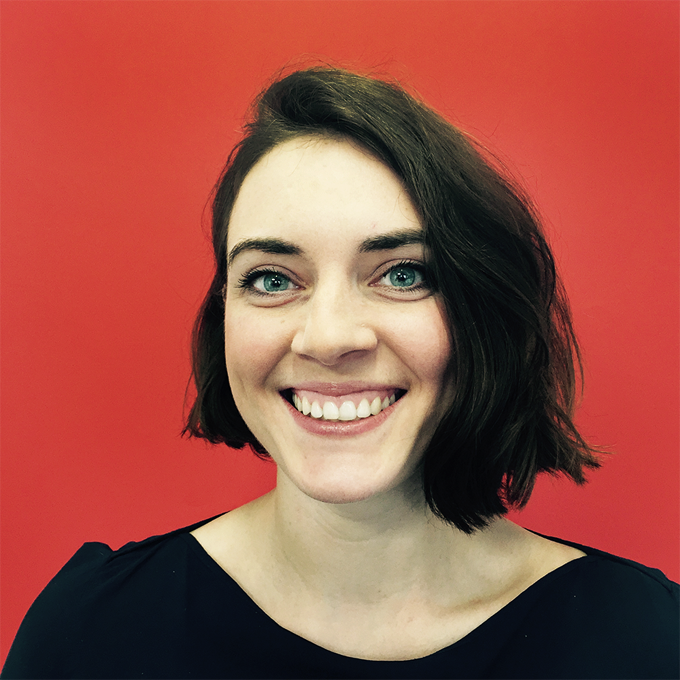
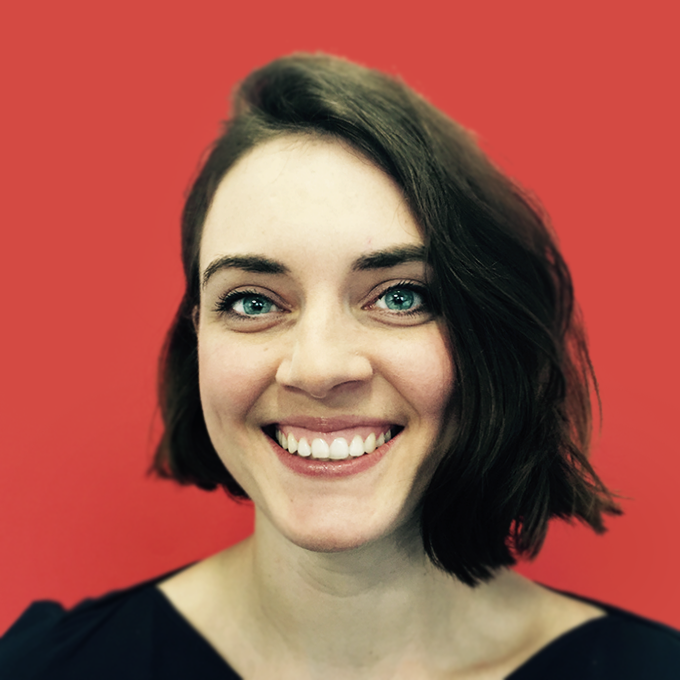
Show new photos on team page

diff --git a/source/stylesheets/base/_mixins.scss b/source/stylesheets/base/_mixins.scss
@@ -218,7 +218,9 @@ $images:
   soothe, sportslion, lifthero, soal, kotel,
   bartek, basia, beata, filip, magda, maniek,
   marcin, mareta, mariusz, mikolaj, przemek,
-  ania, irene, magdap, andrzej, rafal;
+  ania, irene, magdap, andrzej, rafal, tomek,
+  barteks, iza, jarek, patryk, piotrek, pawel,
+  lukasz;
 
 $folder-name: companies, team;
 

diff --git a/source/stylesheets/modules/_m-team.scss b/source/stylesheets/modules/_m-team.scss
@@ -142,7 +142,7 @@
     }
 
     .description {
-      font-size: 2vw;
+      @include font(25px, 1);
     }
 
     .join-us-element {
@@ -160,10 +160,6 @@
     .flipping-front ,
     .flipping-back {
       @include size(250px, 250px);
-    }
-
-    .description {
-      font-size: 28px;
     }
 
     .join-us-element {
